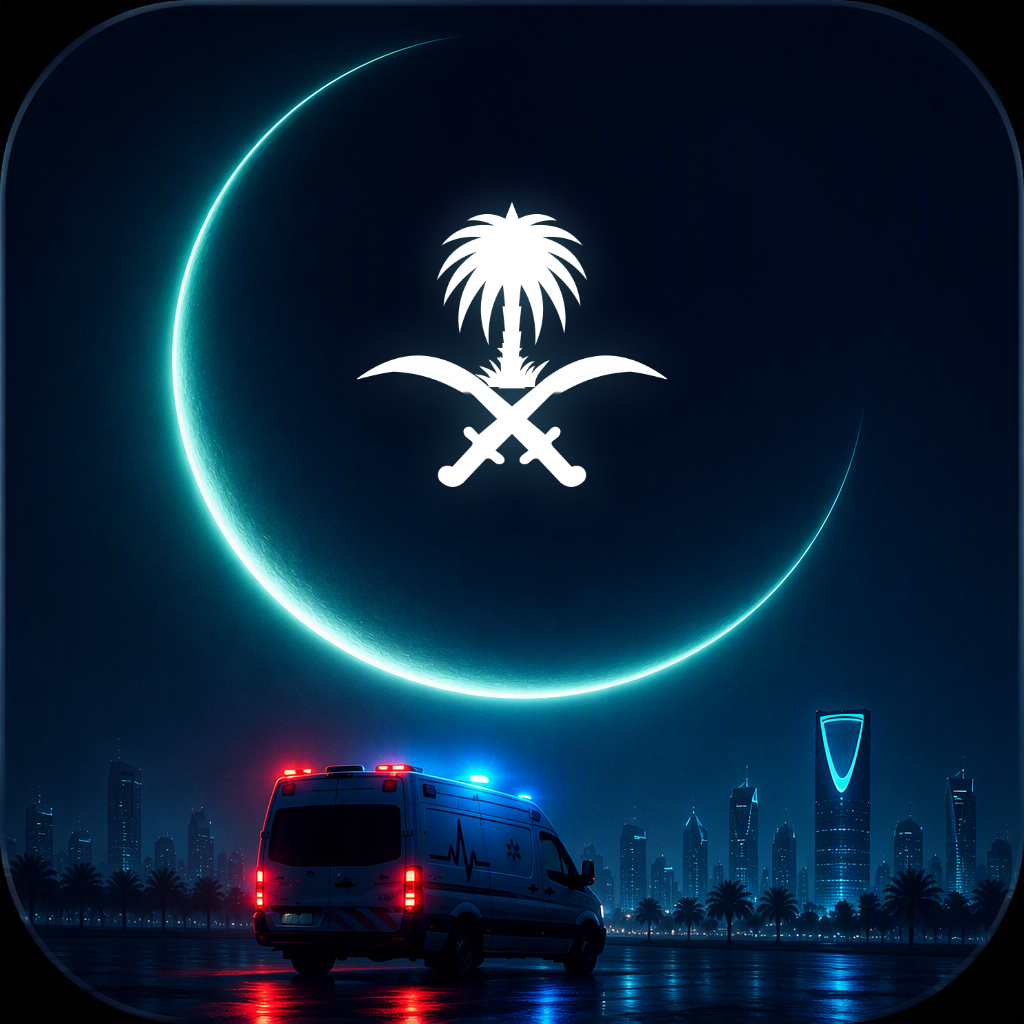
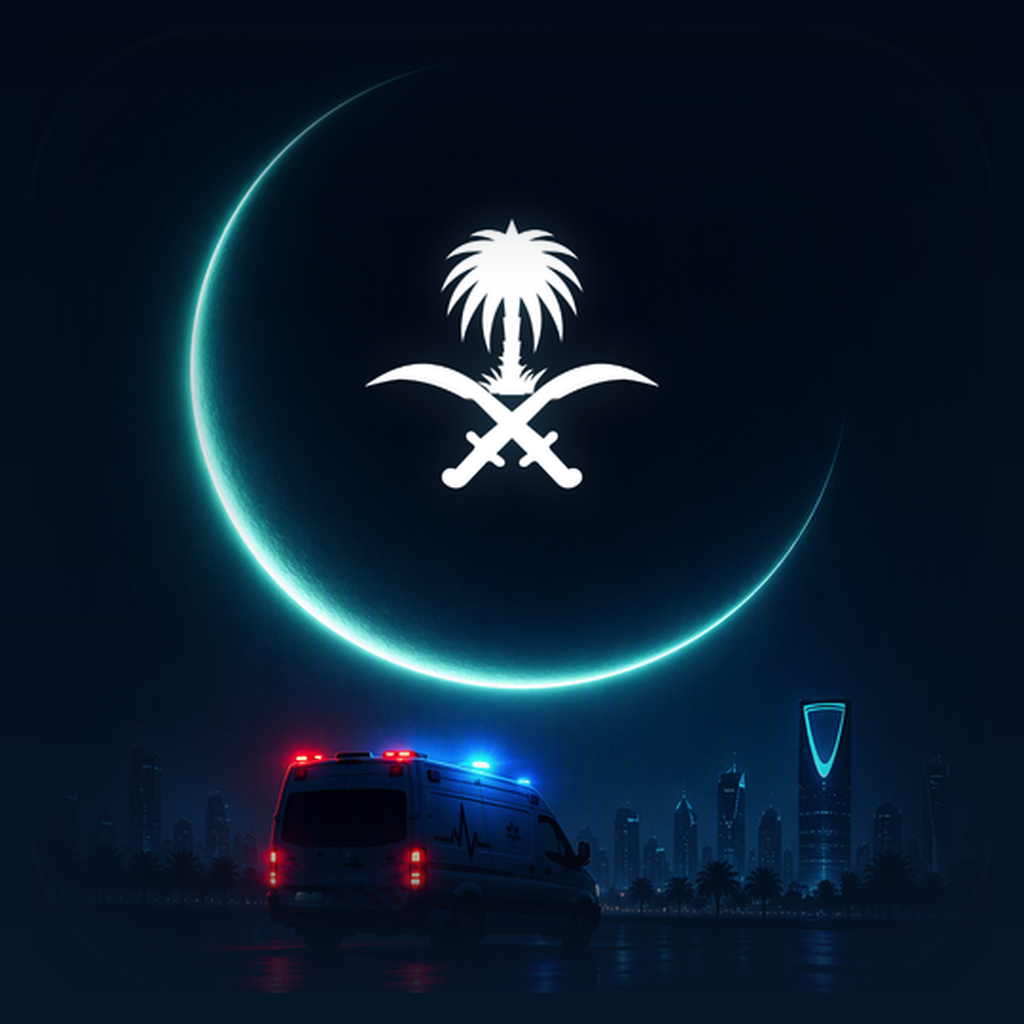
brand: الهوية البصرية الجديدة لنسخة الويب (اعتماد المالك 2026-09-23)
- استبدال الشعار الرئيسي logo.png وكل الأيقونات من المصدر بنفس الأسماء — بلا ملفات جديدة غير مستخدمة
- الهوية: هلال مضيء + نخلة وسيفان + إسعاف + أفق الرياض الليلي (أزرق داكن/فيروزي)
- خلفية الدخول login-bg: PNG 1.6MB ← WebP 30KB (−98%)، ومشتقة من الصورة المرجعية نفسها
- تصحيح alt: إزالة «شعار المملكة»/«شعار هيئة الهلال» — هوية المنصة فقط (شرط المالك)
- بصري فقط: لا Backend ولا APIs ولا صلاحيات
- تحقق معزول: كل الأصول 200، مرجع webp فعّال، PNG القديم محذوف

diff --git a/public/workflow.html b/public/workflow.html
@@ -265,7 +265,7 @@ body::after { content:''; position:fixed; inset:0; z-index:-1; pointer-events:no
 <!-- الرأس -->
 <div class="page-header">
     <div class="title">
-        <div class="logo"><img src="logo.png" alt="شعار هيئة الهلال الأحمر السعودي"></div>
+        <div class="logo"><img src="logo.png" alt="منصة إدارة العمليات الإسعافية — قطاع جنوب الرياض"></div>
         <div>
             <h1>سير العمل الرسمي</h1>
             <div class="sub">هيئة الهلال الأحمر السعودي — قطاع الجنوب</div>
@@ -1713,7 +1713,7 @@ function renderPdf() {
                 '<div class="l2">هيئة الهلال الأحمر السعودي</div>' +
                 '<div class="l3">الإدارة العامة للخدمات الإسعافية — قطاع جنوب الرياض</div>' +
                 '<div class="l4">سير العمل الرسمي لبداية المناوبة</div></div>' +
-            '<div class="logo-box"><img src="logo.png" alt="شعار هيئة الهلال الأحمر السعودي"></div>' +
+            '<div class="logo-box"><img src="logo.png" alt="منصة إدارة العمليات الإسعافية — قطاع جنوب الرياض"></div>' +
             '<div class="doc-meta">' +
                 'المرجع: <b>' + esc(refTxt) + '</b><br>' +
                 'الإصدار: <b>V' + esc(wf.versionNo != null ? String(wf.versionNo) : '—') + '</b><br>' +

diff --git a/public/index.html b/public/index.html
@@ -341,7 +341,7 @@ window.addEventListener('load', function() {
     /* خلفية أفق الرياض الليلي + طبقة تعتيم للمقروئية */
     #loginScreen .ls-bg {
         position: absolute; inset: 0; pointer-events: none;
-        background: url('/assets/brand/login-bg.png') center / cover no-repeat;
+        background: url('/assets/brand/login-bg.webp') center / cover no-repeat;
     }
     #loginScreen .ls-bg::before {
         content: ''; position: absolute; inset: 0;
@@ -535,7 +535,7 @@ window.addEventListener('load', function() {
     <!-- Composition واحد: هوية ← نموذج ← رسالة -->
     <div class="ls-center">
         <div class="ls-brand">
-            <img src="/assets/brand/emblem.png" class="ls-logo" alt="شعار المملكة العربية السعودية">
+            <img src="/assets/brand/emblem.png" class="ls-logo" alt="منصة إدارة العمليات الإسعافية — قطاع جنوب الرياض">
             <h1 class="ls-title">منظومة العمليات الإسعافية</h1>
             <p class="ls-subtitle">EMS OPERATIONS</p>
         </div>
